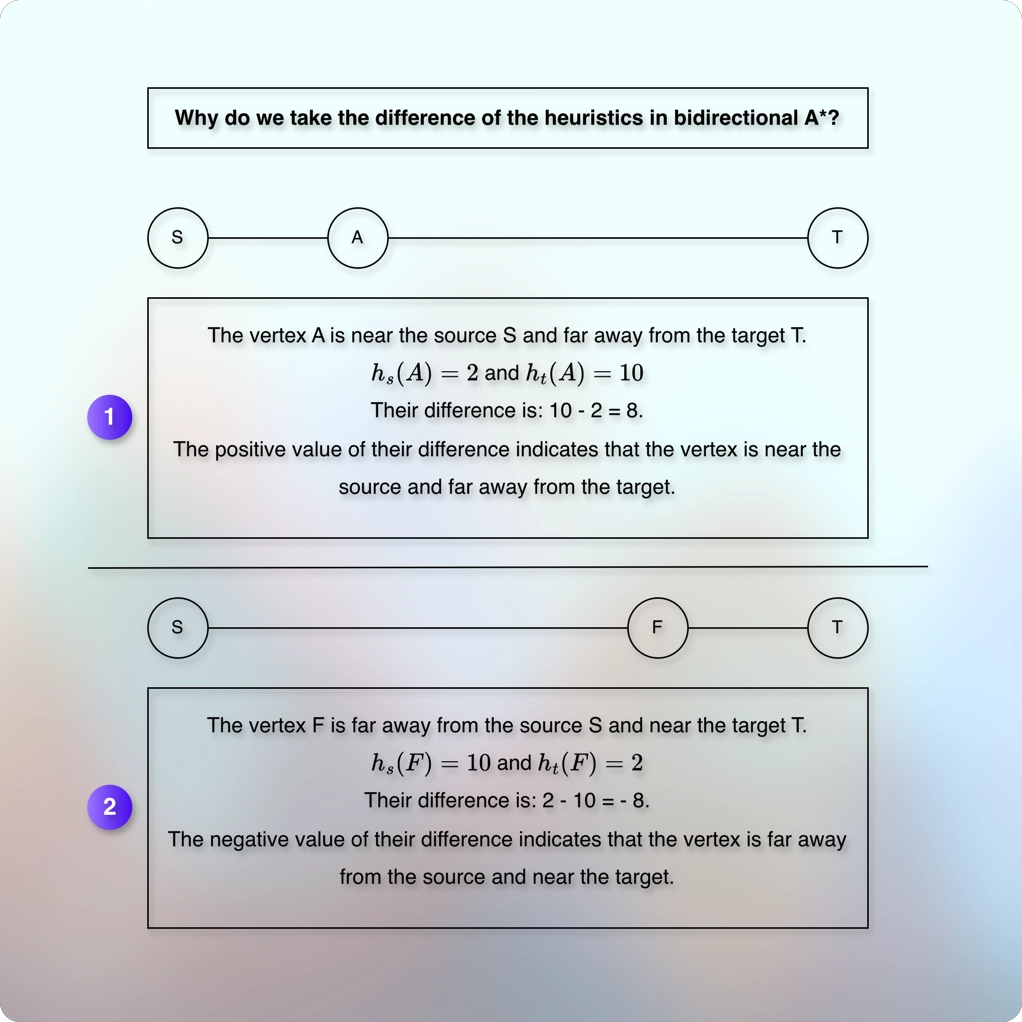
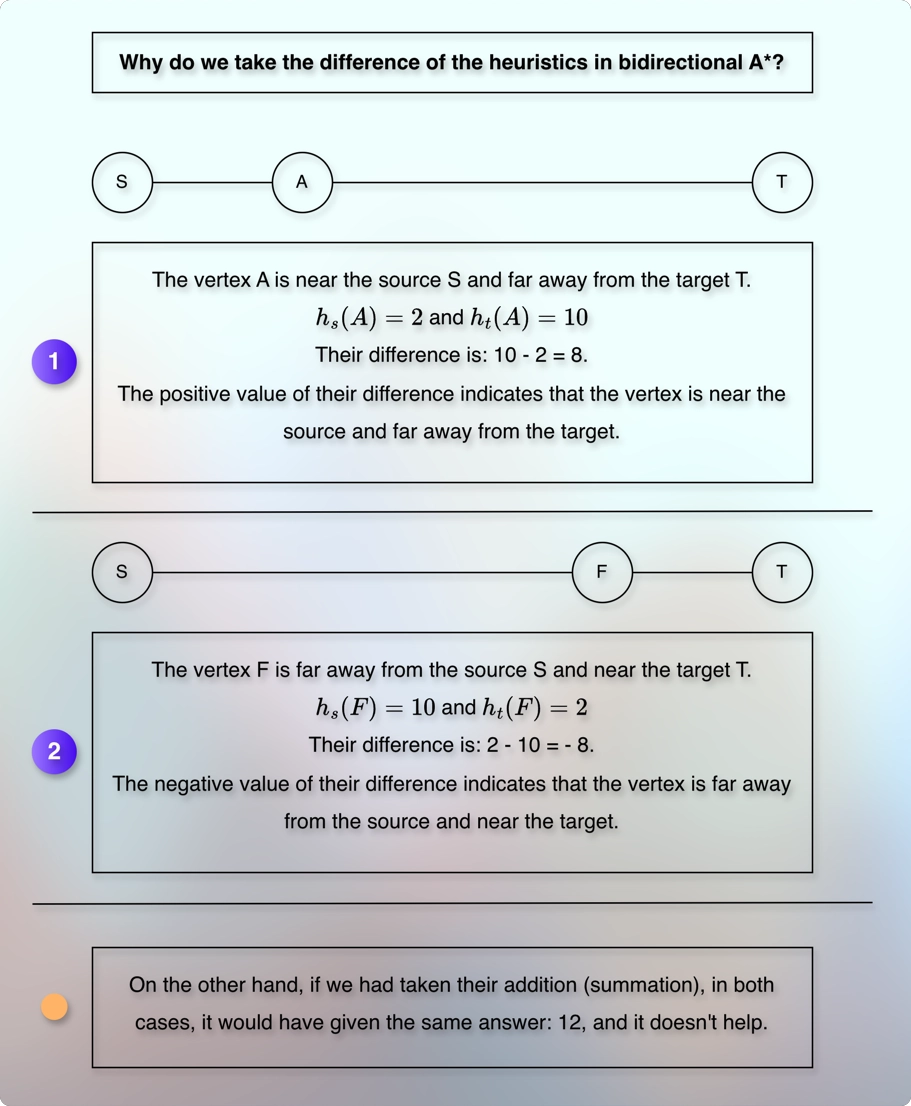
rev-doc(WIP): WIP: Improve the image that explains about taking the difference of the heuristics in the bidirectional A* algorithm (what it conveys, indicates, implies) and also add some subsequent questions | 030bidirectionalAstar.md
Took 5 minutes

diff --git a/docs/03graph/courses/uc/module06advancedShortestPathProject/010lectures/030bidirectionalAstar.md b/docs/03graph/courses/uc/module06advancedShortestPathProject/010lectures/030bidirectionalAstar.md
@@ -60,3 +60,5 @@
 * For the source vertex S and the target vertex T, we still apply the actual cost from the source to the vertex v + the actual cost from the vertex v to the target = the complete path. But I believe I am missing the idea that connects us with these actual costs. And I also believe that the complications (difficulties) come from the fact that we store `f` to the priority queue, and not merely the actual values. So maybe, all these formulas are to get idea of the actual values from the stored heuristics, but I am unsure. 
 * Why do we have a different main while loop condition than the bidirectional Dijkstra? Why do we process even if one of the queues is exhausted/empty? What does that indicate? How does that help?
 * I feel disconnected. I believe I am missing many things and hence, I am unable to connect with the implementation with proper reasoning and understanding. 
+---
+* How does taking the difference of the heuristics help? I understood what it indicates. And now I am trying to understand its importance, need, impact, and contribution to solution. What does it contribute to the solution? How does it contribute to the solution? It might be a part of the bigger picture that I might be missing.
